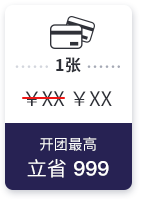
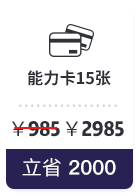
update:  样式修改（endless）

diff --git a/pages/payment/buygether.js b/pages/payment/buygether.js
@@ -167,7 +167,7 @@ export default class extends React.Component {
         {studyCardPackageList.map((ele, index) => {
           return (
             <div key={index} onClick={() => { this.buyMyGroup(index) }}>
-              <img src={`/static/img/buygether/card_${index}.png`} />
+              <img src={`/static/img/buygether/card_${index + 1}.png`} />
             </div>)
         })}
       </div>
@@ -190,6 +190,10 @@ export default class extends React.Component {
           flex-wrap: wrap;
         }
         .card-line {
+          position: absolute;
+          bottom: 60px;
+          left: 0;
+          width: 100%;
           display: flex;
           justify-content: space-between;
           margin-top: 15px;
@@ -218,7 +222,7 @@ export default class extends React.Component {
         // 要根据这个团的不同情况进行渲染
         if (ele.status === 1) {
           // 历史团
-          button = <Button style={this.buttonStyle} onClick={() => { this.goRouter('/abilitycollege/coupon') }}>邀请好友，再得卡</Button>
+          button = <Button style={this.buttonStyle} onClick={() => { this.goRouter('/abilitycollege/coupon') }}>邀好友再得卡</Button>
         } else {
           // 正在团
           button = <Button style={this.buttonStyle} onClick={() => { this.renderPop(ele) }}>立即邀请好友</Button>
@@ -284,10 +288,25 @@ export default class extends React.Component {
   renderCoupon () {
     let {couponInfo} = this.state
     if (couponInfo) {
+      let couponType
+      switch (couponInfo.name) {
+        case '通用券':
+          couponType = 0
+          break
+        case '闺蜜券':
+          couponType = 1
+          break
+        case '基友券':
+          couponType = 2
+          break
+        case '校友券':
+          couponType = 3
+          break
+      }
       let {nickname} = couponInfo
       return (<div className='div-with-bottom'>
         {this.renderTitle('我获得的优惠券')}
-        <img onClick={() => { this.buyMyGroup() }} src='/static/img/buygether/coupon.png' />
+        <img onClick={() => { this.buyMyGroup() }} src={`/static/img/buygether/coupon_card_${couponType}.png`} />
         <p>* {nickname} 赠送，报名后你的好友 {nickname} 将免费获得一张能力卡</p>
         <style jsx>{`
           .div-with-bottom {
@@ -309,16 +328,23 @@ export default class extends React.Component {
     if (otherGroup !== undefined) {
       const perLength = this.groupLength
       let groupingArr = []
+      let buttonStyle = {
+        backgroundColor: '#F9F9F9',
+        color: '#c41616',
+        border: '1px solid #c41616',
+        fontSize: '14px',
+        width: '60px'
+      }
       if (otherGroup.length > perLength) {
         // 如果人数多于4个，取出4个渲染
         groupingArr = otherGroup.slice(0, perLength).map((ele, index) => {
-          const button = <Button style={this.buttonStyle} onClick={() => { this.buyOtherGroup(ele) }}>参团</Button>
+          const button = <Button style={buttonStyle} onClick={() => { this.buyOtherGroup(ele) }}>参团</Button>
           return (this.renderCard(ele, button, index))
         })
       } else if (otherGroup.length > 0) {
         // 如果人数不足4个
         groupingArr = otherGroup.map((ele, index) => {
-          const button = <Button style={this.buttonStyle} onClick={() => { this.buyOtherGroup(ele) }}>参团</Button>
+          const button = <Button style={buttonStyle} onClick={() => { this.buyOtherGroup(ele) }}>参团</Button>
           return (this.renderCard(ele, button, index))
         })
       } else {
@@ -349,11 +375,18 @@ export default class extends React.Component {
         backgroundColor: '#f0f2f6',
         borderRadius: '20px',
         padding: '0px 5px',
-        display: 'inline-block'
+        display: 'inline-block',
+        color: 'red',
+        minWidth: '60px'
       }
       content = <div>
-        剩余<div style={style}><TimeDown limitTime={leftMinute}>{`${leftHour} : `}</TimeDown></div>
-        {/*<br />还差1人*/}
+        剩余
+        <div style={style}>
+          <TimeDown limitTime={leftMinute}>
+            {`${leftHour} : `}
+          </TimeDown>
+        </div>
+        还差<strong style={{color: 'red'}}>1</strong>人
       </div>
     }
     return (<div key={index} className='group-card'>
@@ -368,29 +401,30 @@ export default class extends React.Component {
         <p>{nickname}的拼团</p>
         <p>{content}</p>
       </div>
+      <div className='empty'></div>
       <div className='button'>
         {button}
       </div>
       <style jsx>{`
         .group-card {
           display: flex;
-          font-size: 14px;
-          justify-content: space-between;
+          font-size: 12px;
           align-items: center;
-          padding: 10px 0px;
+          margin: 5px 0px;
           height: 50px;
         }
         .head-list {
           text-align: center;
           display: flex;
           justify-content: center;
-          flex: 2;
-          margin-right: 6px;
+          flex: none;
+          width: 40px;
+          margin-right: 16px;
         }
         .head-list div {
           position: relative;
           z-index: 10;
-          width: 55%;
+          width: 100%;
           flex: none;
           text-align:center;
         }
@@ -400,18 +434,20 @@ export default class extends React.Component {
         }
         .head-list div+div {
           z-index: 15;
-          margin-left: -35px;
+          margin-left: -25px;
         }
         .content {
           text-align: left;
-          flex: 4;
+          min-width: 150px;
+          flex: none;
         }
         .button {
-          width: 100%;
-          flex: 3;
+          flex: auto;
+          max-width: 160px;
+          text-align:right;
         }
-        .button > div {
-          height: 100%;
+        .empty {
+          flex: auto;
         }
       `}</style>
     </div>)
@@ -589,35 +625,54 @@ export default class extends React.Component {
   }
 
   renderMoreQA () {
-    let hStyle = {
-      fontSize: '18px',
-      fontWeight: 'bold',
-      marginLeft: '10px'
-    }
-    let moreStyle = {
-      marginTop: '10px'
-    }
-    let arr = staticContent.map((ele, index) => {
-      return (<div className='question'>
-        <h1 style={hStyle}>{ele.question}</h1>
-        <MoreLine style={moreStyle} title=' • 小灶能力学院院长Marc回答' content={ele.content} />
-        <style jsx>{`
+    if (this.state.otherGroup !== undefined) {
+      let hStyle = {
+        fontSize: '16px',
+        fontWeight: 'bold',
+        marginLeft: '10px'
+      }
+      let moreStyle = {
+        marginTop: '10px'
+      }
+      let arr = staticContent.map((ele, index) => {
+        return (<div className='question'>
+          {/*<h1 style={hStyle}>{ele.question}</h1>*/}
+          <MoreLine style={moreStyle} title={ele.question} content={ele.content} />
+          <style jsx>{`
             .question {
+              color: #646464;
               text-align: left;
-              margin: 10px auto 30px auto;
+              margin: 10px auto 15px auto;
             }
           `}</style>
-      </div>)
-    })
-    return (<div className='more-div'>
-      {arr}
-      <style jsx>{`
+        </div>)
+      })
+      return (<div className='more-div'>
+        <div className='more-info-title'>
+          <span>小灶能力学院Q&A</span>
+        </div>
+        {arr}
+        <style jsx>{`
         .more-div {
           font-size: 14px;
           padding: 4px;
         }
+         .more-info-title{
+            height: 1px;
+            border-top: 3px dotted #e1e4f0;
+            text-align: center;
+            margin: 40px 0px 18px 0px !important;
+          }
+          .more-info-title span{
+            background-color: #f0f2f6;
+            font-size: 18px;
+            position: relative;
+            top: -18px;
+            padding: 0 10px;
+          }
       `}</style>
-    </div>)
+      </div>)
+    }
   }
 
   render () {
@@ -635,9 +690,6 @@ export default class extends React.Component {
             {this.renderBuyButton()}
           </div>
           <div className='more-info'>
-            <div className='more-info-title'>
-              <span>小灶能力学院Q&A</span>
-            </div>
             {this.renderMoreQA()}
           </div>
           {this.renderFooter()}
@@ -676,21 +728,8 @@ export default class extends React.Component {
           }
           .more-info {
             background-color: #f0f2f6;
-            {/*padding: 2px;*/}
           }
-          .more-info-title{
-            height: 1px;
-            border-top: 3px dotted black;
-            text-align: center;
-            margin: 40px 0px 20px 0px !important;
-          }
-          .more-info-title span{
-            background-color: #f0f2f6;
-            font-size: 20px;
-            position: relative;
-            top: -18px;
-            padding: 0 10px;
-          }
+
         `}</style>
       </Layout>
     )

diff --git a/containers/buygether/buypop.js b/containers/buygether/buypop.js
@@ -88,7 +88,6 @@ export default class extends React.Component {
         </div>
         <span style={{textAlign: 'left'}}>选择套餐</span>
         <style jsx>{`
-
           .title {
             text-align: left;
             padding: 10px 10px 0px 10px;
@@ -108,7 +107,8 @@ export default class extends React.Component {
             line-height: 20px;
           }
           .my-line {
-            width:20px;
+            {/*width:20px;*/}
+            flex: 1 1 auto;
             height:1px;
             border:none;
             border-top:1px solid  #e5e5e5;
@@ -195,7 +195,7 @@ export default class extends React.Component {
               font-size: 16px;
             }
             .price {
-              flex: 2
+              flex: 3
             }
             .price strong {
               font-size: 16px;
@@ -301,7 +301,7 @@ export default class extends React.Component {
     if (this.props.couponInfo) {
       let {nickname} = this.props.couponInfo
       return (<div className='coupon-div'>
-        <p> • 使用{nickname}赠送的优惠券，享9折</p>
+        <p> ◉ 已使用{nickname}赠送的优惠券，享9折优惠！</p>
         <p>报名后你的好友{nickname}将免费获得一张能力卡</p>
         <style jsx>{`
         .coupon-div {

diff --git a/xz-components/moreLine.js b/xz-components/moreLine.js
@@ -38,9 +38,8 @@ export default class extends React.Component {
       <div style={this.props.style} className='more' onClick={this.clickTitle}>
         <div className='title' >
           {this.props.title}
-          <span>{this.state.isShow ? '↓' : '<'}</span>
+          <span>{this.state.isShow ? '◀' : '▼'}</span>
         </div>
-        <div className='content' style={style}>{this.state.isShow ? this.props.content : ''}</div>
         <div className='content' style={style}>{this.state.isShow ? this.props.content : ''}</div>
         <style jsx>{`
           .more {
@@ -48,6 +47,7 @@ export default class extends React.Component {
             box-shadow: 0 1px 6px rgba(0,0,0,.2);
             padding: 10px;
             border-radius: 10px;
+            line-height: 24px;
           }
           .more .title {
             font-size: 14px;
